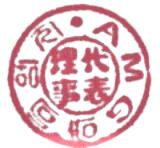
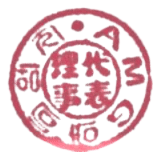
stamp 이미지 사이즈 변경, ContractDocument 이미지 태그 사이즈 수정

diff --git a/src/components/ContractDocument.tsx b/src/components/ContractDocument.tsx
@@ -219,7 +219,7 @@ const ContractDocument = forwardRef<HTMLDivElement, ContractDocumentProps>(
                   <span className="relative mr-1 text-foreground-muted">
                     (인)
                     <div className="absolute left-1/2 top-1/2 size-10 -translate-x-1/2 -translate-y-1/2">
-                      <Image width={40} layout="fixed" alt="stamp" src={stampImage} />
+                      <Image fill alt="stamp" src={stampImage} />
                     </div>
                   </span>
                 </span>
@@ -253,7 +253,7 @@ const ContractDocument = forwardRef<HTMLDivElement, ContractDocumentProps>(
                   <span className="relative mr-1 text-foreground-muted">
                     (인)
                     <div className="absolute left-1/2 top-1/2 size-10 -translate-x-1/2 -translate-y-1/2">
-                      <Image width={40} layout="fixed" alt="sign" src={signature} />
+                      <Image fill alt="sign" src={signature} />
                     </div>
                   </span>
                 </span>
